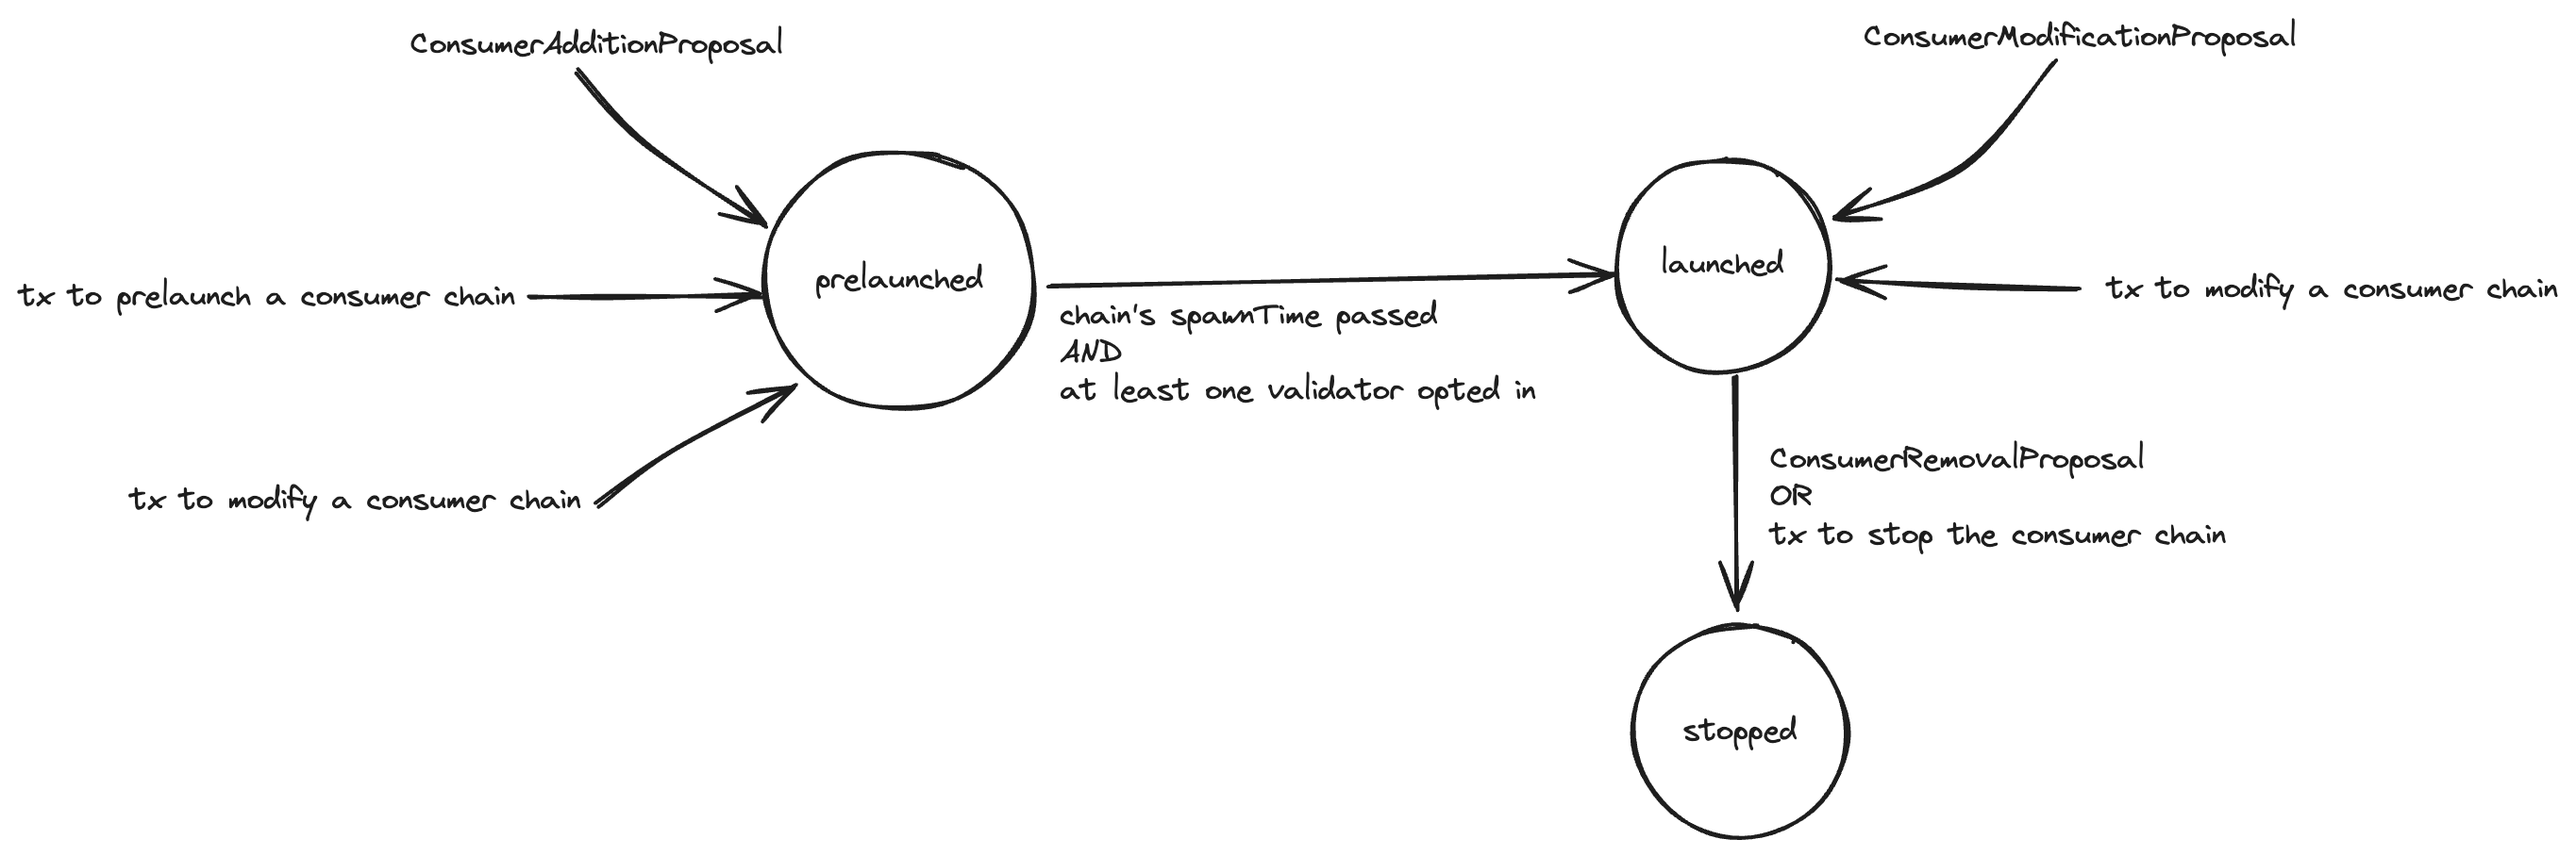
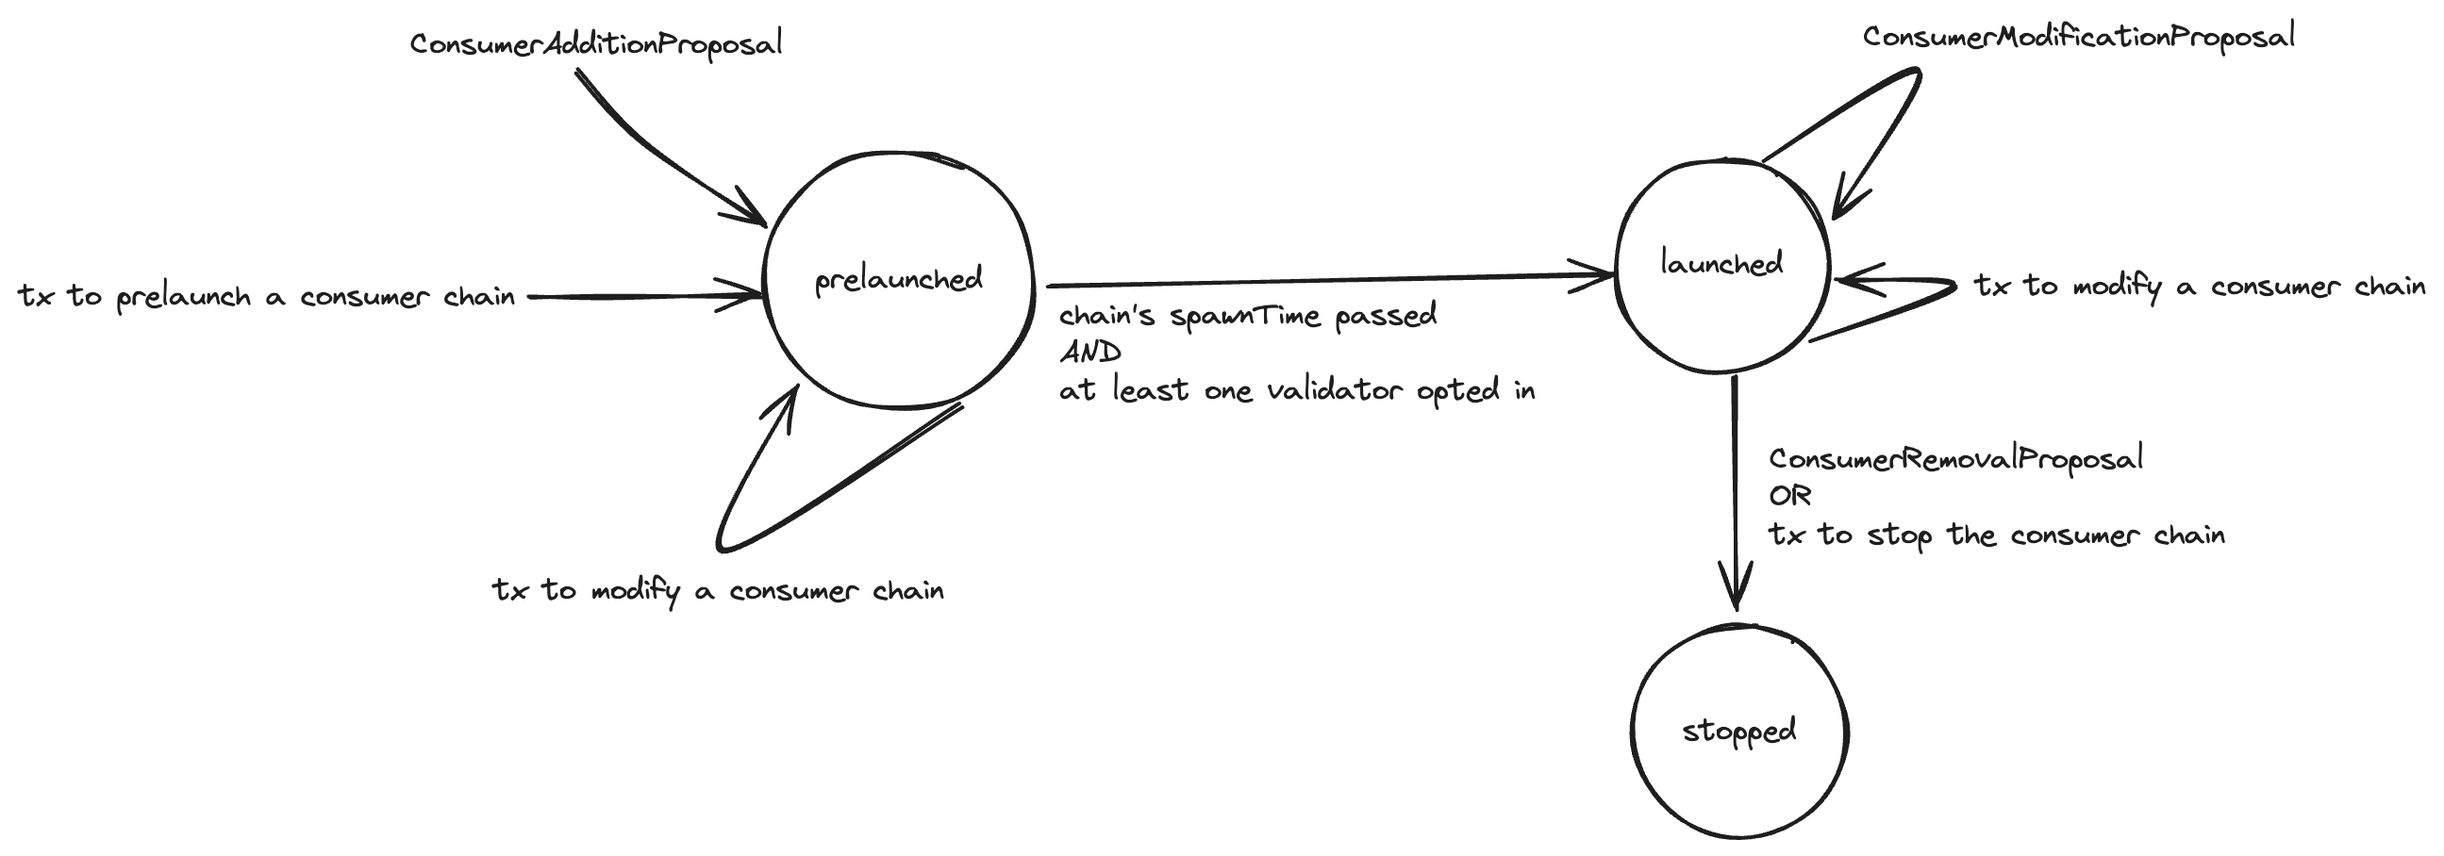
more changes

diff --git a/docs/docs/adrs/adr-018-permissionless-ics.md b/docs/docs/adrs/adr-018-permissionless-ics.md
@@ -25,14 +25,18 @@ ICS without needing a governance proposal but by simply issuing a transaction.
 
 ### The Phases of a Consumer Chain
 In Permissionless ICS, launching an Opt In chain is **only** possible through a transaction and not through a `ConsumerAdditionProposal`.
-Similarly, modifying or stopping an Opt In chain is only possible through transactions and not through governance proposals.
 Nevertheless, Permissionless ICS does not eliminate the `ConsumerAdditionProposal` governance proposal, as proposals are still necessary
 for Top N chains. Because of this, this ADR outlines a solution that attempts to preserve as much of the governance proposal code
-as possible. In what follows, what we describe applies to both governance-proposed consumer (i.e., Top N) chains and transaction-based (i.e., Opt In) chains.
+as possible.
+Additionally, to make the distinction between governance-proposed versus transaction-launched chains clearer, in Permissionless ICS,
+we can only add, modify, or remove Top N chains with governance proposals (i.e., `ConsumerAdditionProposal`, `ConsumerModificationProposal`,
+and `ConsumerRemovalProposal`) and we can only add, modify, or remove Opt In chains with transactions.
+In what follows, we describe changes that apply to both governance-proposed (i.e., Top N) and transaction-based (i.e., Opt In) consumer chains.
 
 A consumer chain can reside in three phases: i) _prelaunched_, ii) _launched_, and iii) _stopped_ phase as seen
 in the diagram below:
 ![Phases of a consumer chain](./adr18_phases_of_a_consumer_chain.png)
+
 
 When a Top N chain is first proposed through a `ConsumerAdditionProposal` or an Opt In chain is added through a transaction,
 the consumer chain resides in the _prelaunched_ phase. At this state, validators can choose to opt in on the consumer chain. Additionally,
@@ -64,10 +68,18 @@ appropriate client (i.e., `clientID`) based on the actual chain they want to com
 consumer chains with the exact same `chainID`, and it is the responsibility of the validator to choose the one they wish
 to interact with by providing the right `consumerID`.
 
-As a result of using `consumerID`, we have to migrate a substantial chunk of state to re-index it using `consumerID` as the key.
+Note, that with Permissionless ICS all interactions on a consumer chain have to use the `consumerID` instead of the `chainID`.
+For example, if a validator opts in on a chain using `MsgOptIn`, the validator has to provide the `consumerID`. To also
+provide the `consumerID` for Top N consumers chains, we store a mapping between `proposalID` to `consumerID`. This storing
+takes place in the [`AfterProposalSubmission`](https://github.com/cosmos/cosmos-sdk/blob/v0.50.7/x/gov/keeper/proposal.go#L117) hook.
+In some cases, we need the actual `chainID`. For example, when we [verify equivocation evidence](https://github.com/cosmos/interchain-security/blob/v4.3.0/x/ccv/provider/keeper/consumer_equivocation.go#L121).
+To avoid having to change how [Hermes](https://github.com/informalsystems/hermes) constructs and sends need the `MsgSubmitConsumerMisbehaviour`
+and `MsgSubmitConsumerDoubleVoting` messages, we just verify the evidence is valid and then go through all the chains with the `chainID`
+to check on whether a validator can be slashed.
 
 
 #### State
+As a result of using `consumerID`, we have to migrate a substantial chunk of state to re-index it using `consumerID` as the key.
 To move from using the `chainID` to the new `consumerID`, we need to revamp the consumer chains' stored state in ICS. Currently, in
 ICS we have state that is indexed by a multitude of [keys](https://github.com/cosmos/interchain-security/blob/v4.3.0/x/ccv/provider/types/keys.go#L40).
 In the table below, we see which ones are associated with a `chainID` and how often state under those keys gets updated.
@@ -195,9 +207,10 @@ to `len(chainID) | chainID | counter` and this way we can have multiple differen
 with the same `chainID`. By doing this, we tackle the main issue behind permissionless consumer chains that is chain-id squatting.
 Note that `consumerID` could just be a `uint64` but we choose to include `chainID` in it as well so that it is easier to see
 what the consumer chain just by looking at the `consumerID`. This means that the `chainID` of a chain cannot be changed
-after launching it (because the `chainID` is part of the `consumerID` key).
+after launching it (because the `chainID` is part of the `consumerID` key). To easily generate `consumerID`s we store
+for each `len(chainID) | chainID` the latest `counter` value used for this `chainID`.
 
-We intend to set a fixed cost of a `MsgLaunchConsumerChain` to avoid getting spammed with bogus consumer chains.
+We set a to-be-decided fixed cost of a `MsgLaunchConsumerChain` to avoid getting spammed with bogus consumer chains.
 
 To execute a `MsgLaunchConsumerChain`, we first create a `ConsumerAdditionProposal` under the hoods, with the `top_N` set to 0, and call
 [`HandleConsumerAdditionProposal`](https://github.com/cosmos/interchain-security/blob/v4.3.0/x/ccv/provider/keeper/proposal.go#L30)
@@ -212,7 +225,12 @@ To do this, we keep track of when a `MsgLaunchConsumerChain` is first issued by 
 [`ConsumerAdditionProposal`](https://github.com/cosmos/interchain-security/blob/v4.3.0/proto/interchain_security/ccv/provider/v1/provider.proto#L29).
 This way, even if `spawnTime` is updated through a `MsgUpdateConsumerChain` (see below), we can check on whether the
 new proposed `spawnTime` is less than `issuedTime + (2 months)`. Note that Top N chains can have an arbitrary `spawnTime`
-since their proposals can already be rejected by the community. 
+since their proposals can already be rejected by the community.
+
+For all chains in the prelaunch phase, we keep a mapping between `consumerID` and the underlying `ConsumerAdditionProposal`.
+This way, we can respond to queries that ask for all the consumer chain's parameters. For example, retrieving the
+`spawn_time` of consumer chain with a given `consumerID`.
+
 #### Modify a Consumer Chain
 
 We introduce the `MsgUpdateConsumerChain` message so that the owner of a consumer chain can change its parameters
@@ -279,6 +297,7 @@ We also change `MsgOptIn` so a validator cannot opt in to two or more chains wit
 
 ### Negative
 - Extensive migration and overhaul of existing code base (as part of API-breaking changes) that could lead to bugs and more work for auditing this.
+
 
 ## References
 [CHIPs Discussion phase: Permissionless ICS](https://forum.cosmos.network/t/chips-discussion-phase-permissionless-ics/13955)
